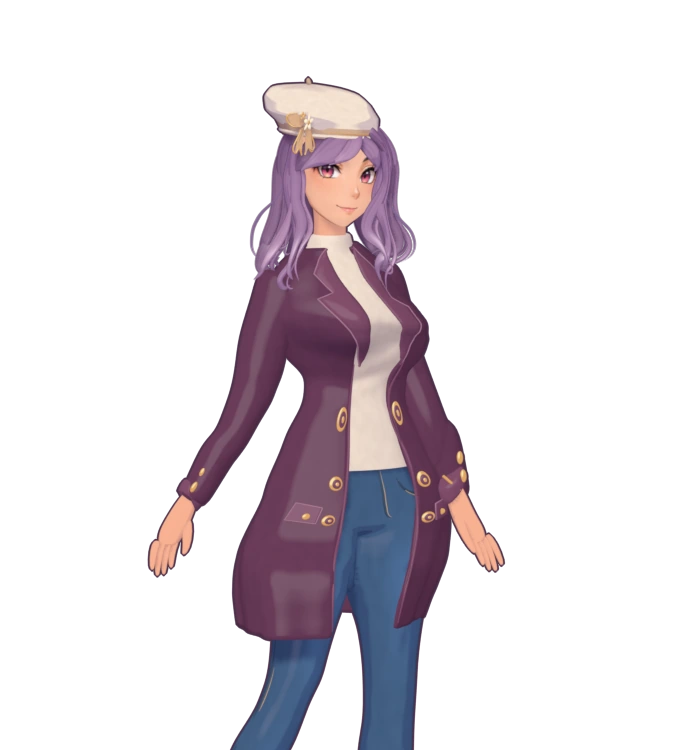
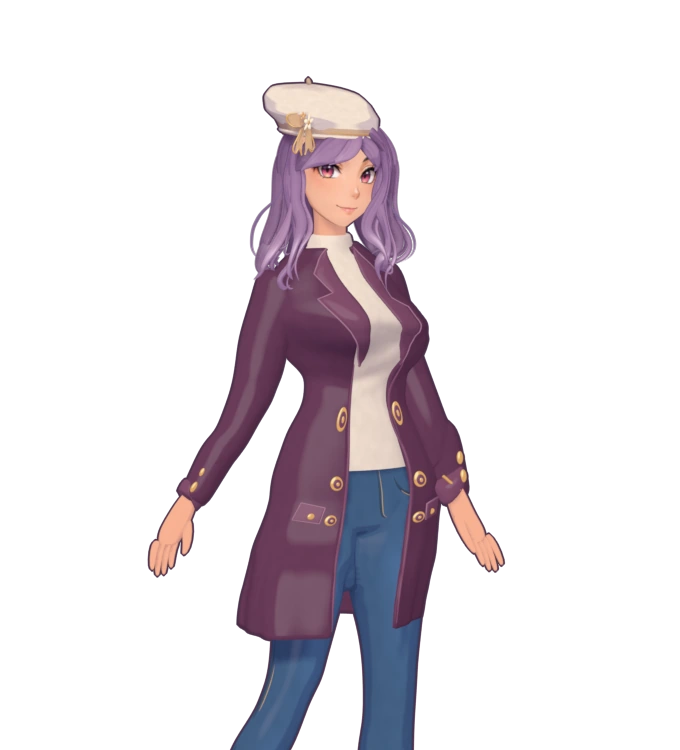
Narrow the studio hip silhouette and fit the coat over the thigh

diff --git a/docs/avatar-3d.html b/docs/avatar-3d.html
@@ -7,7 +7,7 @@
 <meta name="description" content="같은 코디의 2D 원화와 3D 모델 렌더를 비교해 보세요.">
 <title>캐릭터 제작 시안 · 알찬끼</title>
 <link rel="stylesheet" href="./avatar-3d.css">
-<script type="module" src="./avatar-3d.mjs?v=20"></script>
+<script type="module" src="./avatar-3d.mjs?v=21"></script>
 </head>
 <body>
 <main>

diff --git a/scripts/avatar-studio/render.py b/scripts/avatar-studio/render.py
@@ -1386,13 +1386,20 @@ def fit_reference_pose(scene):
         fitted_width, fitted_depth = tailoring(lifted)
         x_fit = axis_fit+(x_fit-axis_fit)*width_factor*fitted_width
         if region != "arm":
-            hip = smooth_range(lifted,444,531)*(1-smooth_range(lifted,560,634))
-            x_fit += ((x_fit-axis_fit)*.095-3)*hip
-            fitted_depth += .075*hip
+            # Bring the seat in below the waistband and release the fabric
+            # over the upper thighs. Pockets and coat panels follow the denim.
+            hip = smooth_range(lifted,444,532)*(1-smooth_range(lifted,557,650))
+            x_fit += ((axis_fit-x_fit)*.043-3)*hip
+            back = smooth_range(point.y,0,.27)
+            fitted_depth -= (.035+.042*back)*hip
         # Use the same depth adjustment for the body and its clothing so
         # pocket, cuff, and lapel surfaces still meet their matching base.
         depth_axis = (inverse @ Vector((0,.04,point.z))).z
         depth = depth_axis+(depth-depth_axis)*fitted_depth
+        if region == "coat":
+            # The far hem curves around the bent thigh below the fitted seat.
+            hem = smooth_range(lifted,557,600)*smooth_range(x_fit-axis_fit,24,56)
+            depth += .055*hem
         if region == "arm":
             # Let the bent elbows and wrists hang at their original reach.
             lifted += (y_fit-6-lifted)*smooth_range(y,330,545)

diff --git a/scripts/avatar-studio/STYLE-GUIDE.md b/scripts/avatar-studio/STYLE-GUIDE.md
@@ -6,7 +6,7 @@
 
 - 전신은 모자를 벗긴 상태에서 정수리와 발바닥 높이를 맞춰 비교한다. 같은 화면에서 허리선과 가랑이 높이, 무릎에서 발목까지의 흐름을 확인한다. 몸판과 데님의 세로 비율은 `SILHOUETTE_HEIGHTS`에서 함께 맞추고, 손은 소매와 함께 움직인다. 머리 크기를 조정할 때는 앞머리와 모자도 같이 움직여 목과 챙의 겹침을 확인한다.
 - `TAILORING_PROFILE`은 높이 구간마다 3D 메시의 폭과 깊이를 맞춘다. 어깨에서 허리로 이어지는 곡선과 종아리의 가늘어짐을 조절할 때 상의, 데님, 손과 소매에 공통으로 적용한다. 발목과 옷깃에서 인접 부위가 자연스럽게 이어지는지 확인한다.
-- 가슴과 허리는 `BODICE_SECTIONS`에서 높이별로 후디와 코트의 여유분을 정하고 `tailored_fold`에서 곡면으로 연결한다. 이 캐릭터는 원화보다 앞으로 덜 나오는 실루엣을 사용한다. 정점의 돌출량과 그 주변 윤곽이 완만하게 돌아가는 구간을 각각 검사한다. 가까운 쪽 몸판의 입체감은 앞쪽 곡면과 옆솔기 아래로 흐르는 옅은 그늘로 살린다. 후디 끈과 코트 깃의 안쪽·바깥쪽 가장자리를 그 곡면에 붙이고, 같은 카메라에서 가슴 앞판이 나오는 위치와 허리로 돌아가는 윤곽을 비교한다. 골반 너비는 팔을 제외하고 몸 중심을 지나는 옷이나 데님만 측정한다.
+- 가슴과 허리는 `BODICE_SECTIONS`에서 높이별로 후디와 코트의 여유분을 정하고 `tailored_fold`에서 곡면으로 연결한다. 이 캐릭터는 원화보다 앞으로 덜 나오는 실루엣을 사용한다. 정점의 돌출량과 그 주변 윤곽이 완만하게 돌아가는 구간을 각각 검사한다. 가까운 쪽 몸판의 입체감은 앞쪽 곡면과 옆솔기 아래로 흐르는 옅은 그늘로 살린다. 후디 끈과 코트 깃의 안쪽·바깥쪽 가장자리를 그 곡면에 붙이고, 같은 카메라에서 가슴 앞판이 나오는 위치와 허리로 돌아가는 윤곽을 비교한다. 골반은 허리띠 아래부터 폭과 뒤쪽 깊이를 줄여 허벅지 윗부분에서 완만하게 풀어 준다. 데님·주머니·코트에 같은 보정을 적용하고, 같은 카메라의 골반 높이 다섯 줄에서 몸 중심을 지나는 옷 너비를 확인한다. 원화에서 손이 코트 자락과 겹치는 높이는 기존 코트 렌더를 비교 기준으로 삼는다.
 - 같은 카메라에서 비교할 때 목깃 아래의 어깨 기울기와 양쪽 소매 밖의 폭을 여러 높이에서 확인한다. 어깨 폭을 바꾸면 관자놀이와 턱 옆의 웨이브 폭도 함께 확인하고, 가닥이 가장 넓게 굽는 위치와 끝이 옷에 닿는 높이를 원화와 맞춘다.
 - 머리카락은 가르마에서 출발해 관자놀이와 어깨를 따라 크게 나눈다. 좌우 가닥의 끝 높이와 방향을 다르게 두고, 가닥끼리 겹치는 곳과 사이로 배경이 보이는 곳을 모두 만든다. 큰 곡선에는 가는 보조 가닥과 색선을 얹는다. 눈매와 볼을 드러내고 베레모 아래에서는 뿌리와 앞머리를 챙 안쪽으로 눌러 맞춘다.
 - 앞머리는 가르마에서 한쪽 눈썹을 스치도록 큰 가닥과 가는 끝 가닥을 겹친다. 두 가닥 사이로 이마가 갈라져 보이면 안쪽에 받치는 모발 면을 맞춘다. 반대편 눈썹과 양쪽 눈동자, 베레모 챙의 아랫선이 읽히는지 같은 배율로 확인한다.

diff --git a/team/REQUEST-MEMORY.md b/team/REQUEST-MEMORY.md
@@ -7,6 +7,7 @@
 | 적용 범위 | 이어갈 요청 | 작업 후 확인 |
 | --- | --- | --- |
 | 3D 제작 시안의 체형 | 같은 배율의 옷장 원화를 기준으로 한다. 어깨는 좁고 자연스럽게 기울며, 가슴이 앞으로 과하게 돌출되지 않고 몸판이 얕고 둥글게 돌아 허리·골반으로 이어지는 실루엣을 선호한다. | 후디와 코트 각각에서 어깨 폭, 가슴의 가장 바깥쪽과 그 위아래 곡률, 허리선과 골반 양옆을 본다. 원화보다 앞선의 돌출을 조금 줄이고, 후디 끈·코트 깃과 가까운 쪽 옷감의 그늘까지 전신과 확대에서 비교한다. 어깨를 줄이는 작업에서도 몸통의 입체감을 따로 확인한다. |
+| 골반과 엉덩이 | 현재 상의의 어깨·가슴·허리 비율을 기준으로, 엉덩이의 좌우 폭과 뒤쪽 볼륨을 줄이고 허벅지까지 완만하게 연결한다. | 후디 아래 드러나는 데님과 코트를 입힌 전신을 같은 배율에서 비교한다. 바지 주머니 위치와 코트가 엉덩이를 덮는 모양도 함께 본다. |
 | 얼굴과 헤어 | 정지 상태의 2D 애니메이션풍 인상이 우선이다. 원화처럼 앞머리가 한쪽 눈썹을 스치고, 옆머리는 귀를 감싸 어깨로 떨어진다. 정수리와 볼 옆의 부피, 목 굵기도 원화와 맞춘다. | 전신과 헤어 확대에서 눈매, 귀 옆의 틈, 가닥의 겹침과 반사광을 확인한다. |
 | 3D 시안의 모자 | 일반 헤어와 모자 쓴 헤어를 각각 한 스타일로 만든다. | 베레모를 골랐을 때 전용 앞머리가 챙 아래에 앉는지 본다. |
 | 새 의상과 피팅 | 코디가 늘어나도 목·카라·손목, 상하의 허리선, 신발 입구가 몸의 각도를 따른다. 포즈보다 가만히 서 있는 착장의 완성도를 먼저 맞춘다. | 실제 착장으로 접점을 확대한다. 시안의 후디 끈과 코트 깃은 앞판 곡면을 따라가야 한다. |
